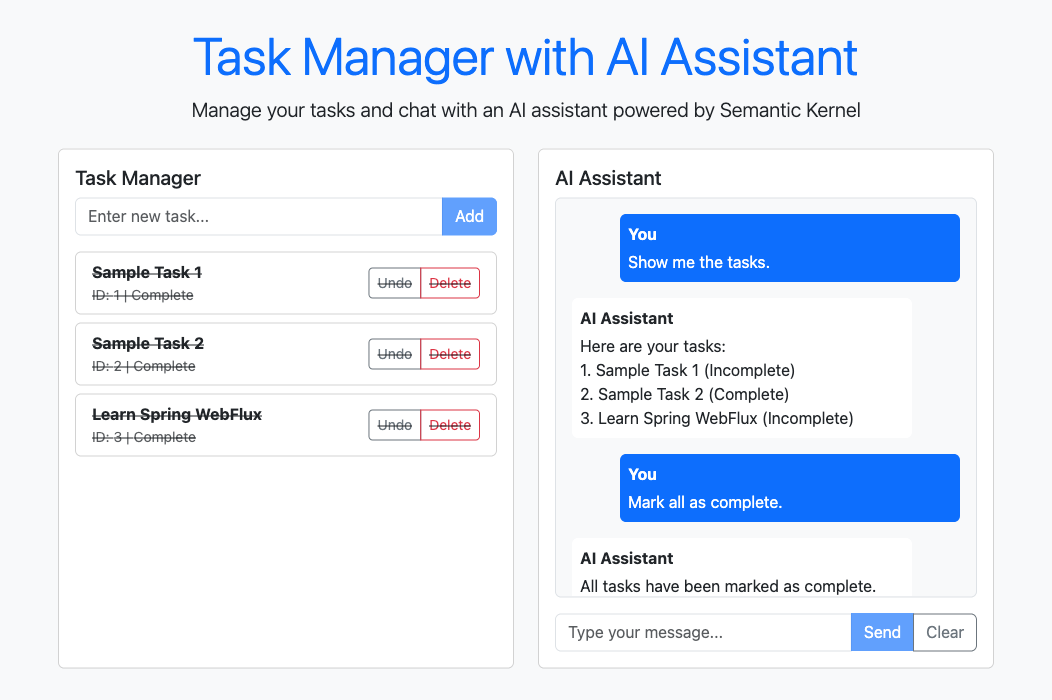
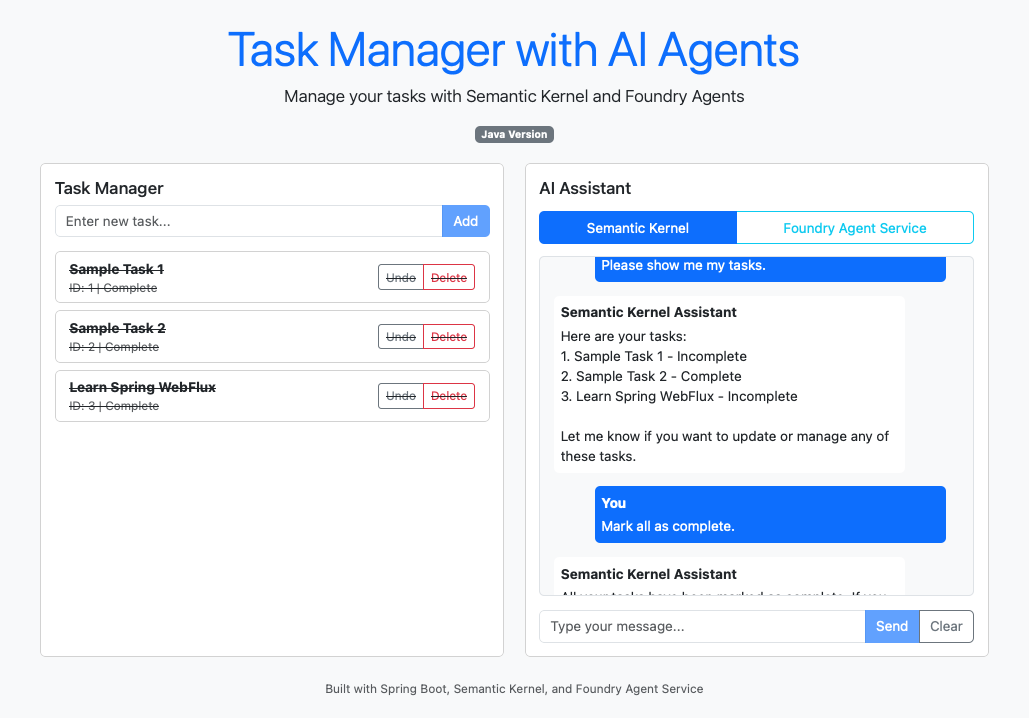
add foundry agent in java tutorial

diff --git a/articles/app-service/tutorial-ai-agent-web-app-semantic-kernel-java.md b/articles/app-service/tutorial-ai-agent-web-app-semantic-kernel-java.md
@@ -96,7 +96,29 @@ Each time the prompt is received, the server code uses `ChatCompletionAgent.invo
 
 ### [Foundry Agent Service](#tab/aifoundry)
 
-[TODO]
+The Foundry agent is initialized in [src/main/java/com/example/crudtaskswithagent/controller/AgentController.java](https://github.com/Azure-Samples/app-service-agentic-semantic-kernel-java/blob/main/src/main/java/com/example/crudtaskswithagent/controller/AgentController.java), when the user enters the first prompt in a new browser session.
+
+You can find the initialization code in the `FoundryAgentService` constructor (in [src/main/java/com/example/crudtaskswithagent/service/FoundryAgentService.java](https://github.com/Azure-Samples/app-service-agentic-semantic-kernel-java/blob/main/src/main/java/com/example/crudtaskswithagent/service/FoundryAgentService.java)). The initialization code does the following:
+
+- Creates an `AgentsClientBuilder` with endpoint and credentials.
+- Builds specialized async clients: `ConversationsAsyncClient` and `ResponsesAsyncClient`.
+- References the agent by name (configured in the Foundry portal).
+- Creates a conversation for the session.
+
+:::code language="java" source="~/app-service-agentic-semantic-kernel-java/src/main/java/com/example/crudtaskswithagent/service/FoundryAgentService.java" range="50-67" highlight="2-6,9-10,13,17-20" :::
+
+Each time the prompt is received, the server code uses `responsesClient.createWithAgentConversation()` to send the message to the Foundry agent and retrieve the response. The conversation ID keeps track of the chat history.
+
+:::code language="java" source="~/app-service-agentic-semantic-kernel-java/src/main/java/com/example/crudtaskswithagent/service/FoundryAgentService.java" range="87-112" highlight="14" :::
+
+> [!NOTE]
+> The constructor performs blocking operations (credential acquisition and conversation creation), so the controller (in [src/main/java/com/example/crudtaskswithagent/controller/AgentController.java](https://github.com/Azure-Samples/app-service-agentic-semantic-kernel-java/blob/main/src/main/java/com/example/crudtaskswithagent/controller/AgentController.java)) creates the service on a `boundedElastic` thread using `.subscribeOn(Schedulers.boundedElastic())`.
+
+This initialization code doesn't define any functionality for the agent, because you would typically build the agent in the Foundry portal. As part of the example scenario, it also follows the OpenAPI pattern shown in [Add an App Service app as a tool in Foundry Agent Service (Spring Boot)](tutorial-ai-integrate-azure-ai-agent-java.md), and makes its CRUD functionality available as an OpenAPI endpoint. This lets you add it to the agent later as a callable tool.
+
+The OpenAPI annotations are defined in the `TaskController` class. For example, the "GET /api/tasks" route defines `operationId` using the `@Operation` annotation, as required by the [OpenAPI spec tool in Microsoft Foundry](/azure/ai-foundry/agents/how-to/tools/openapi-spec#prerequisites), and `summary` and `description` help the agent determine how to call the API:
+
+:::code language="java" source="~/app-service-agentic-semantic-kernel-java/src/main/java/com/example/crudtaskswithagent/controller/TaskController.java" range="28-37" highlight="2-6" :::
 
 -----
 
@@ -125,7 +147,7 @@ The sample repository contains an Azure Developer CLI (AZD) template, which crea
     |Enter a new environment name:     | Type a unique name. |
     |Select an Azure Subscription to use: | Select the subscription. |
     |Pick a resource group to use: | Select **Create a new resource group**. |
-    |Select a location to create the resource group in:| Select any region. The resources will actually be created in **East US 2**.|
+    |Select a location to create the resource group in:| Select **Sweden Central**.|
     |Enter a name for the new resource group:| Type **Enter**.|
 
 1. In the AZD output, find the URL of your app and navigate to it in the browser. The URL looks like this in the AZD output:
@@ -137,7 +159,7 @@ The sample repository contains an Azure Developer CLI (AZD) template, which crea
       - Endpoint: &lt;URL>
     </pre>
 
-1. After successful deployment, you'll see a URL for your deployed application.
+1. Open the autogenerated OpenAPI schema at the `https://....azurewebsites.net/api/schema` path. You need this schema later.
 
     You now have an App Service app with a system-assigned managed identity.
 
@@ -183,8 +205,8 @@ The sample repository contains an Azure Developer CLI (AZD) template, which crea
 
     | Variable                      | Description                                              |
     |-------------------------------|----------------------------------------------------------|
-    | `foundry.project.endpoint`      | Microsoft Foundry project endpoint from the new Foundry portal. |
-    | `foundry.project.endpoint`            | Agent name (from the agent playground in the Foundry portal). |
+    | `azure.foundry.endpoint`      | Microsoft Foundry project endpoint from the new Foundry portal. |
+    | `azure.foundry.agent.name`            | Agent name (from the agent playground in the Foundry portal). |
     
     -----
 

diff --git a/articles/app-service/tutorial-ai-agent-web-app-langgraph-foundry-python.md b/articles/app-service/tutorial-ai-agent-web-app-langgraph-foundry-python.md
@@ -136,7 +136,7 @@ The sample repository contains an Azure Developer CLI (AZD) template, which crea
     |Enter a new environment name:     | Type a unique name. |
     |Select an Azure Subscription to use: | Select the subscription. |
     |Pick a resource group to use: | Select **Create a new resource group**. |
-    |Select a location to create the resource group in:| Select any region. The resources will actually be created in **East US 2**.|
+    |Select a location to create the resource group in:| Select **Sweden Central**.|
     |Enter a name for the new resource group:| Type **Enter**.|
 
 1. In the AZD output, find the URL of your app and navigate to it in the browser. The URL looks like this in the AZD output:
@@ -148,9 +148,7 @@ The sample repository contains an Azure Developer CLI (AZD) template, which crea
       - Endpoint: &lt;URL>
     </pre>
 
-1. Select the **OpenAPI schema** item to open the autogenerated OpenAPI schema at the default `/openapi.json` path. You need this schema later.
-
-1. After successful deployment, you'll see a URL for your deployed application.
+1. Open the autogenerated OpenAPI schema at the `https://....azurewebsites.net/openapi.json` path. You need this schema later.
 
     You now have an App Service app with a system-assigned managed identity.
 

diff --git a/articles/app-service/tutorial-ai-agent-web-app-langgraph-foundry-node.md b/articles/app-service/tutorial-ai-agent-web-app-langgraph-foundry-node.md
@@ -135,7 +135,7 @@ The sample repository contains an Azure Developer CLI (AZD) template, which crea
     |Enter a new environment name:     | Type a unique name. |
     |Select an Azure Subscription to use: | Select the subscription. |
     |Pick a resource group to use: | Select **Create a new resource group**. |
-    |Select a location to create the resource group in:| Select any region. The resources will actually be created in **East US 2**.|
+    |Select a location to create the resource group in:| Select **Sweden Central**.|
     |Enter a name for the new resource group:| Type **Enter**.|
 
 1. In the AZD output, find the URL of your app and navigate to it in the browser. The URL looks like this in the AZD output:
@@ -147,9 +147,7 @@ The sample repository contains an Azure Developer CLI (AZD) template, which crea
       - Endpoint: &lt;URL>
     </pre>
 
-1. Select the **OpenAPI schema** item to open the autogenerated OpenAPI schema at the default `/api/schema` path. You need this schema later.
-
-1. After successful deployment, you'll see a URL for your deployed application.
+1. Open the autogenerated OpenAPI schema at the `https://....azurewebsites.net/api/schema` path. You need this schema later.
 
     You now have an App Service app with a system-assigned managed identity.
 

diff --git a/articles/app-service/tutorial-ai-agent-web-app-semantic-kernel-foundry-dotnet.md b/articles/app-service/tutorial-ai-agent-web-app-semantic-kernel-foundry-dotnet.md
@@ -133,7 +133,7 @@ The sample repository contains an Azure Developer CLI (AZD) template, which crea
     |Enter a new environment name:     | Type a unique name. |
     |Select an Azure Subscription to use: | Select the subscription. |
     |Pick a resource group to use: | Select **Create a new resource group**. |
-    |Select a location to create the resource group in:| Select any region. The resources will actually be created in **East US 2**.|
+    |Select a location to create the resource group in:| Select **Sweden Central**.|
     |Enter a name for the new resource group:| Type **Enter**.|
 
 1. In the AZD output, find the URL of your app and navigate to it in the browser. The URL looks like this in the AZD output:
